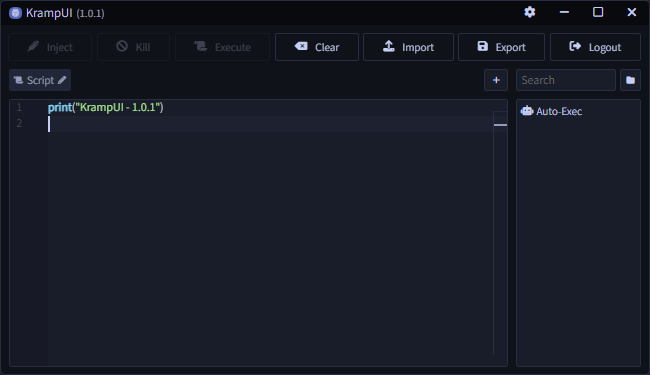
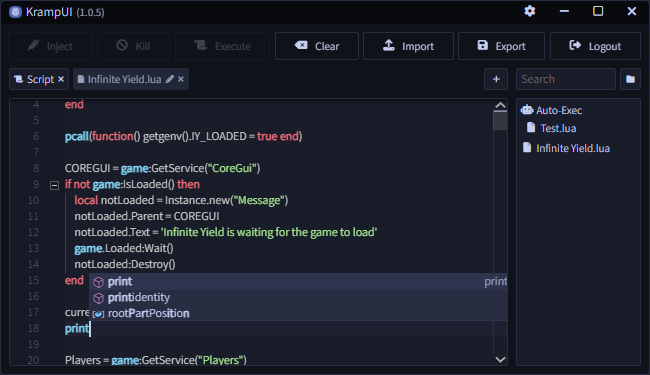
1.0.5

diff --git a/src/index.html b/src/index.html
@@ -17,7 +17,7 @@
         <div class="brand">
           <img class="image" src="./assets/icon.png">
           <p class="text">KrampUI</p>
-          <p class="version">(1.0.4)</p>
+          <p class="version">(1.0.5)</p>
         </div>
         <div class="buttons">
           <div class="kr-dropdown left">
